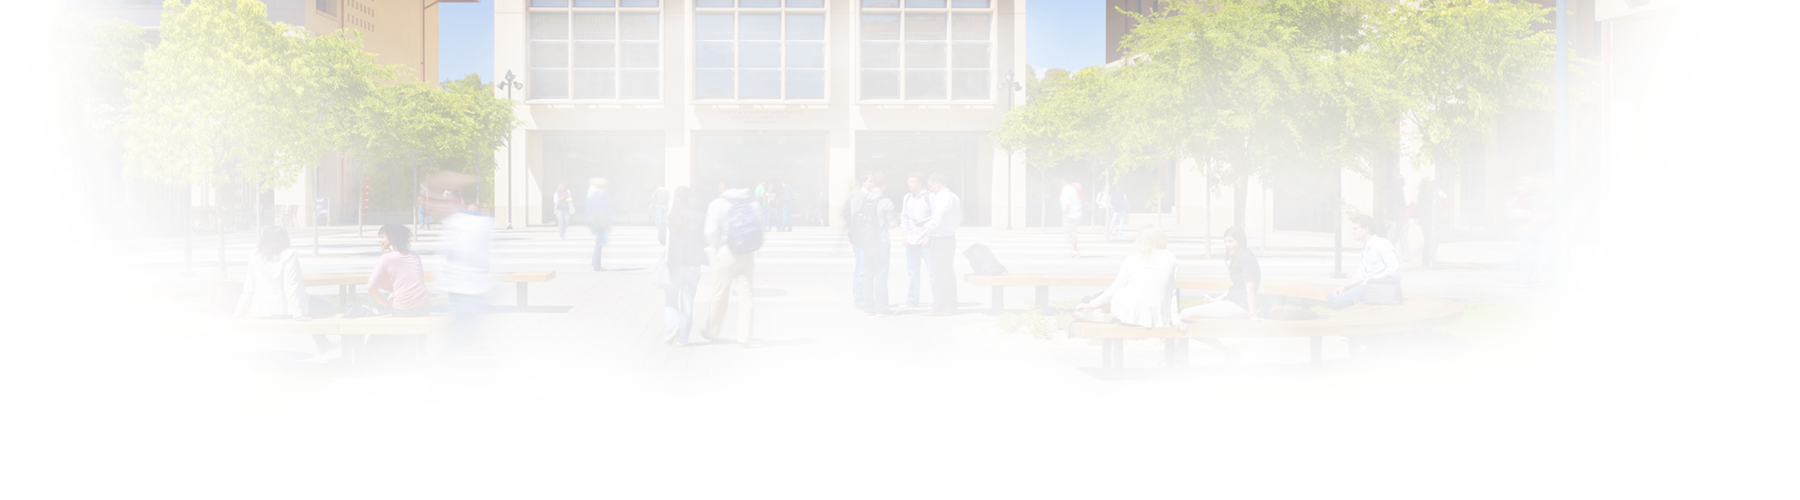
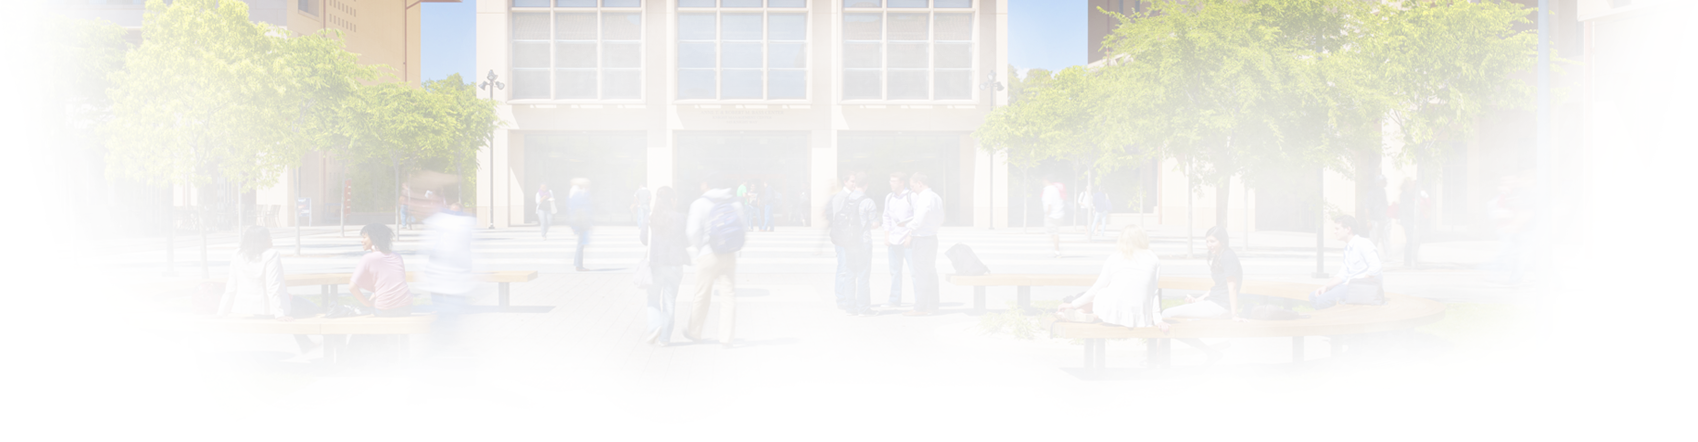
Reexport background images.

diff --git a/sass/revamp-design/_front.sass b/sass/revamp-design/_front.sass
@@ -162,11 +162,19 @@
 // UPCOMING EVENTS
 .pane-gsb-event-frontpage
   @extend %border-and-box-shadow
-  +background((image_url("bg-homepage-events.png") top center no-repeat), #f6e9d6)
+  background: image_url("bg-homepage-events.jpg") no-repeat
+  height: 397px
   padding: 26px
   +breakpoint($bp-mobile)
     padding: 20px
+  +breakpoint($bp-tablet-port-max)
+    background: image_url("bg-homepage-events-wide.jpg") no-repeat
+    height: 199px
+    margin-right: 4px
   +breakpoint($bp-mobile-max)
+    background: image_url("bg-homepage-events-narrow.jpg") no-repeat
+    max-height: 256px
+    height: auto
     max-width: 450px
   .view-gsb-event .view-content .views-row
     border-bottom: 0

diff --git a/sass/revamp-design/_program-finder.sass b/sass/revamp-design/_program-finder.sass
@@ -7,8 +7,7 @@
   .field-group-tab-wrapper
     @extend %border-and-box-shadow
     +background(linear-gradient(right, #355567, #7390a1))
-    // .page-programs &
-    background: image_url("bg-program-finder.png") no-repeat
+    background: image_url("bg-program-finder.jpg") no-repeat
     height: 476px
     padding: 10px
     +breakpoint($bp-program-finder)
